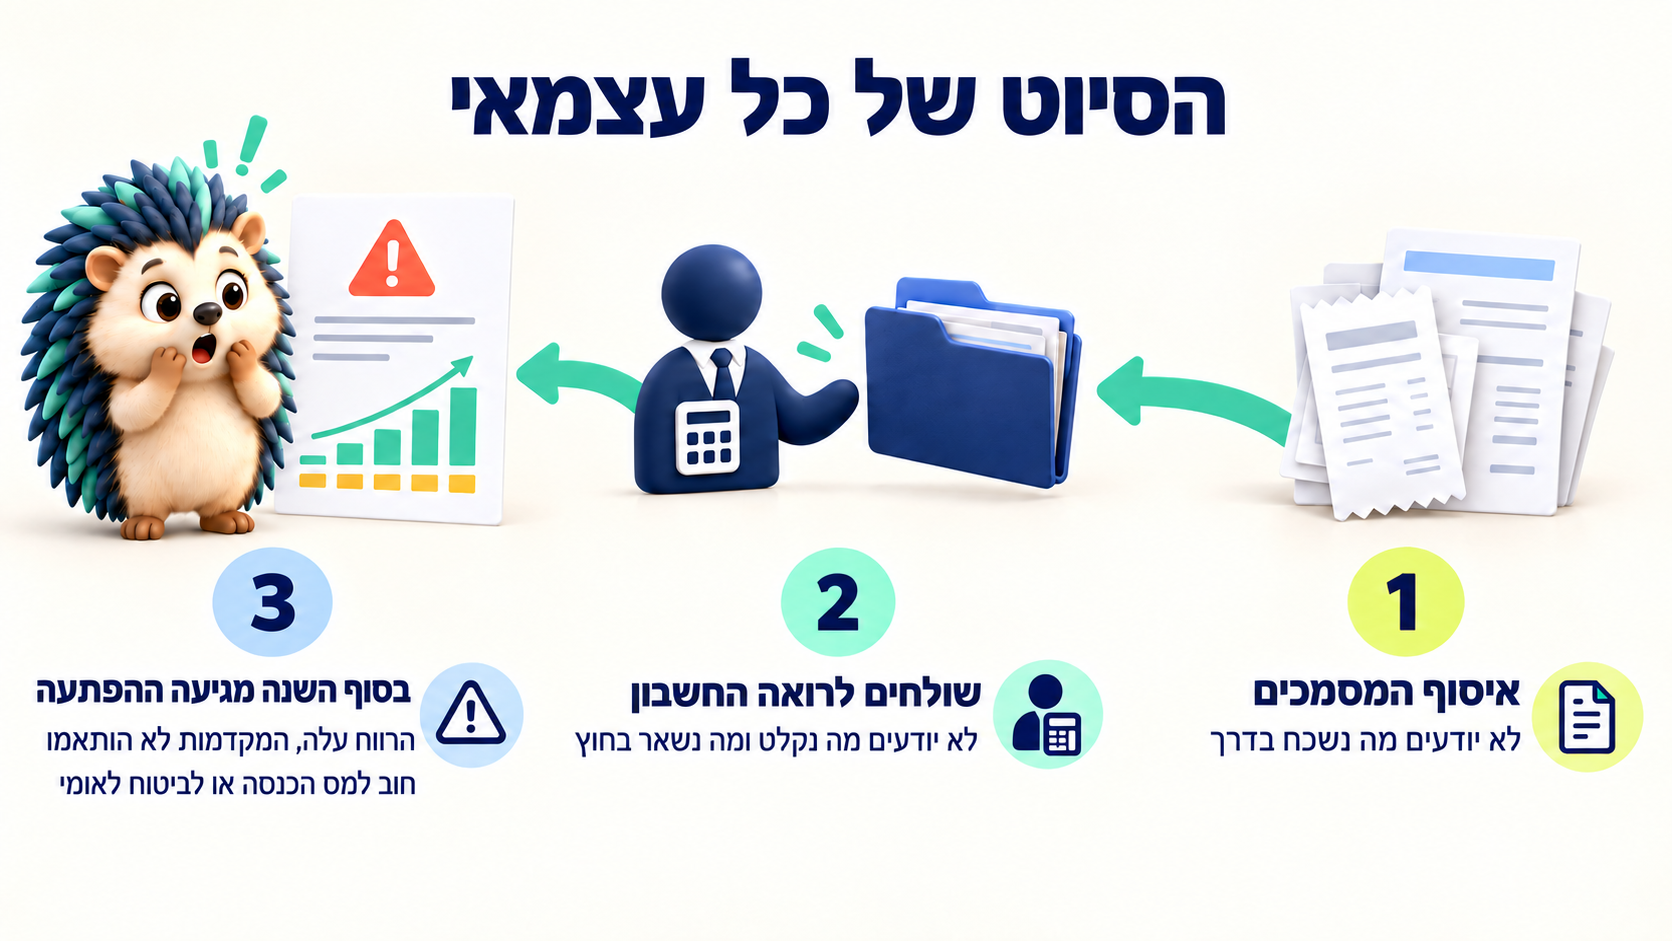
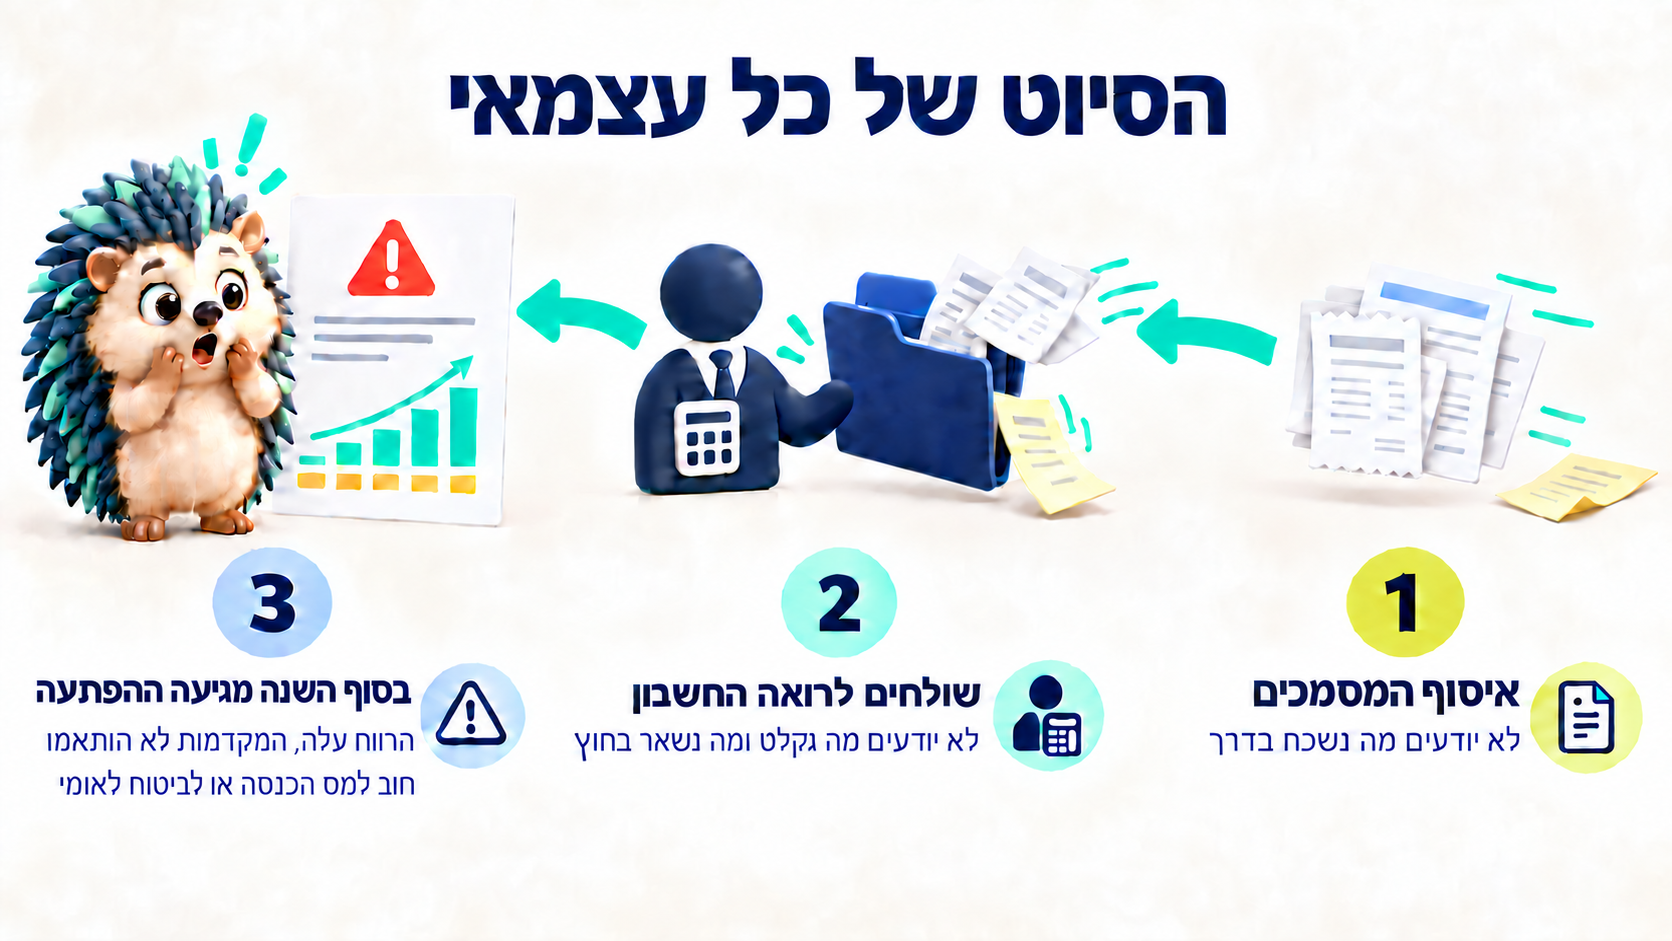
art(guide): update approved missing-documents pain slide

diff --git a/frontend/src/app/pages/admin-panel/AGENTS.md b/frontend/src/app/pages/admin-panel/AGENTS.md
@@ -18,6 +18,8 @@ Internal admin console (tabbed) for staff to manage clients dashboard, the unifi
 
 ## Main flows
 
+- Product-pain artwork updated 2026-09-29 to approved `exec-d1248bbb-745e-4d6f-a285-f8095224bf39.png`, copied losslessly to the existing asset path. Forgotten yellow sheet on floor, missed sheet outside accountant folder, separated stages and detached arrows. Native contain renderer unchanged; provenance in `docs/marketing/product-introduction-slides.md`.
+
 - Expense custom-entry update: inline “הוסף הוצאה” form retains amount and separate tax/VAT recognition percentages per item, accumulating the slider total. Slider changes scale item amounts proportionally without losing recognition rates. VAT is disabled for exempt dealers and now also appears in the middle receipt. Calculator eyebrow/footer caveats were removed at user request; assumptions remain in `docs/marketing/expense-savings-slides.md`. Focused validation covers entry, cancel, invalid input, mixed recognition and scaling.
 
 - Expense calculator follow-up: no revenue input or before/after profit display; applies chosen marginal rates to the full recognized expense under an explicit sufficient-taxable-profit assumption. VAT remains separate; removed net-cost display and turnover warning. Title: `כמה ההוצאה הזאת באמת שווה לכם?`. This supersedes the income cap described in the initial entry below.

diff --git a/docs/marketing/product-introduction-slides.md b/docs/marketing/product-introduction-slides.md
@@ -5,6 +5,14 @@ Integrated on 2026-09-22 at the user's request from task
 
 ## Artwork and placement
 
+2026-09-29 approved pain-slide revision: `exec-d1248bbb-745e-4d6f-a285-f8095224bf39.png`
+replaces `product-pain-approved.png` byte-for-byte, without resampling or extra
+compression. Yellow invoice remains on the floor at collection; another misses
+the accountant folder. Collection stack is shifted right, arrows shortened and
+raised to avoid contact with the accountant. User approved the final preview.
+Current placement is main slide 11 (solution 12), after the two expense slides.
+Historical initial placement and artwork below are retained for provenance.
+
 - Main slide 9, `product-pain`: `הסיוט של כל עצמאי`.
   Source `exec-181fa313-b032-4fae-8a50-a98be4f18f6f.png` copied unchanged to
   `frontend/src/assets/self-employed-guide/product-pain-approved.png`.
